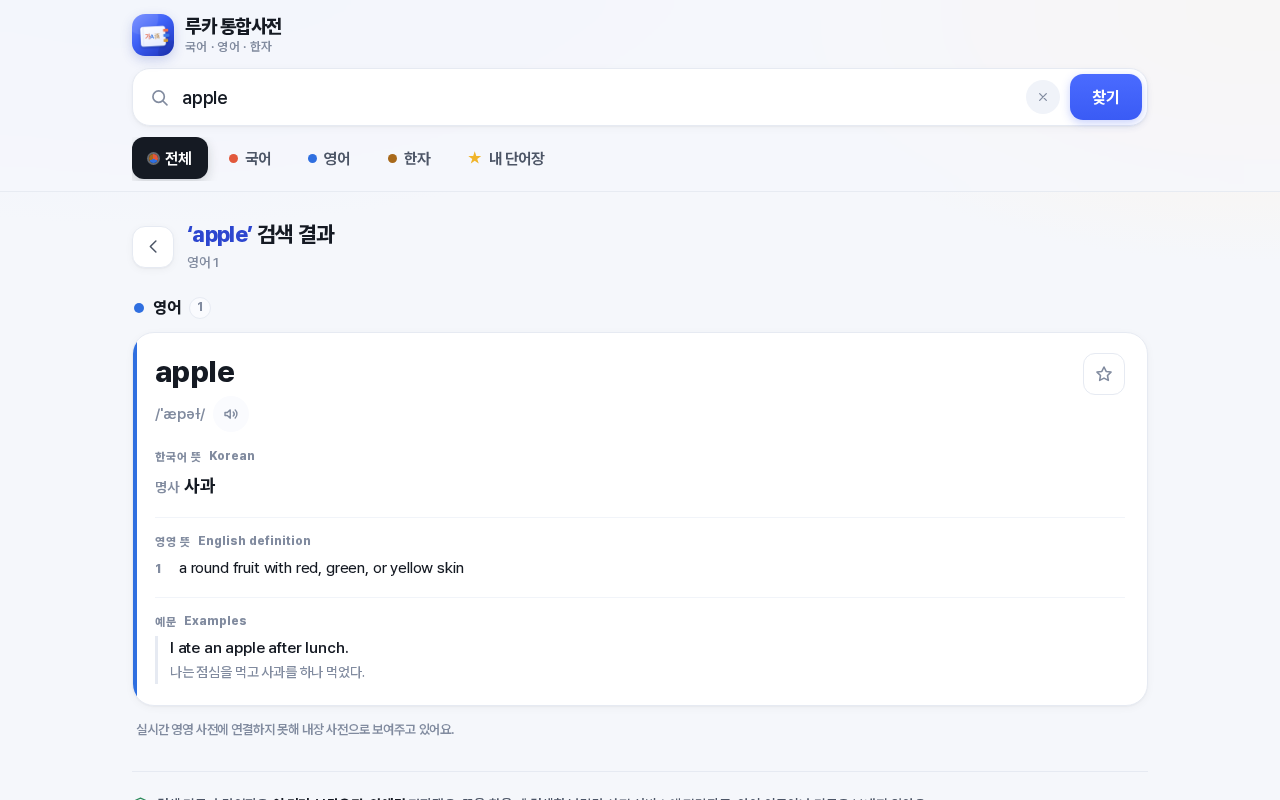
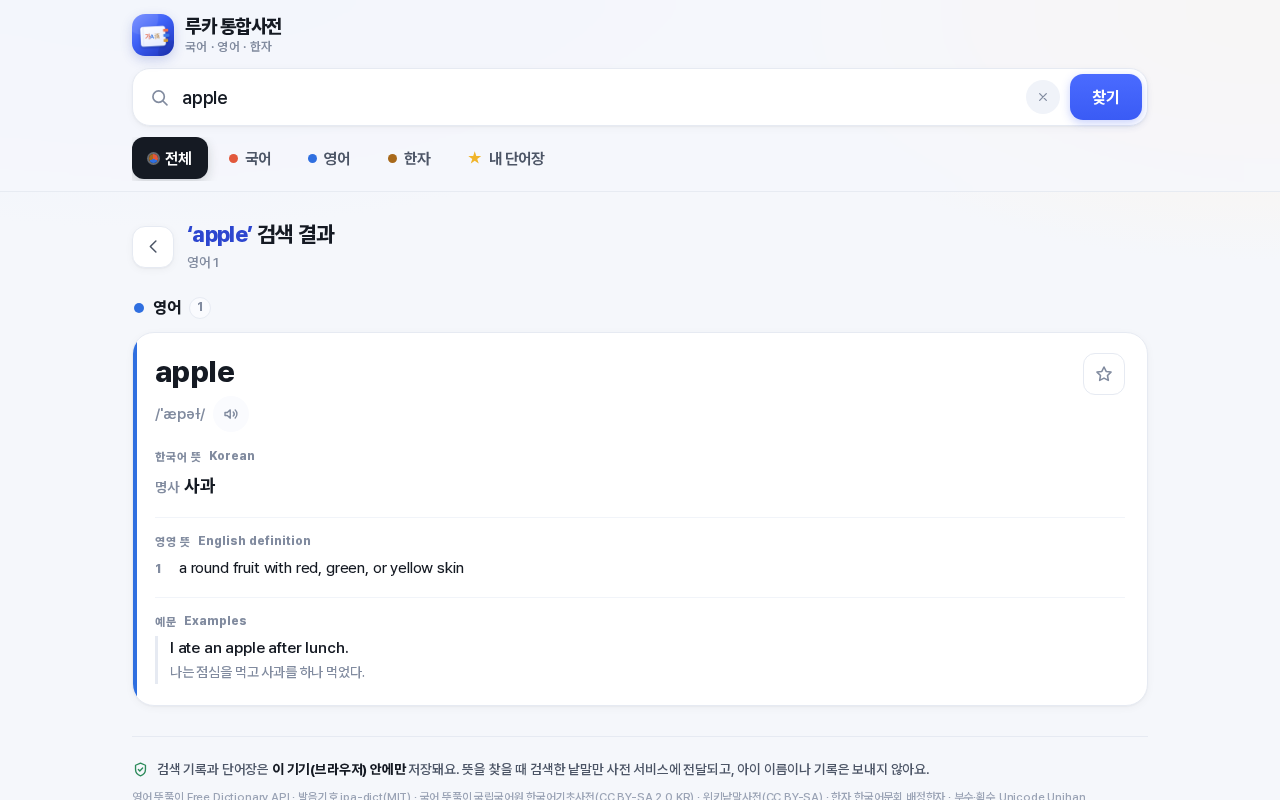
영어 카드: 내장 사전에 뜻이 있으면 실시간 연결 실패 안내를 띄우지 않도록 정리

Changed region(s): [[0.0938, 0.9062, 0.7812, 1.0]]

diff --git a/js/app.js b/js/app.js
@@ -831,7 +831,7 @@
         } else {
           enInner = '<div class="empty">영어 사전에서 <b>' + escapeHtml(q) + "</b>을(를) 찾지 못했어요.<br>철자를 다시 확인해 보세요.</div>";
         }
-      } else if (state.liveEnState === "failed" && enList.length) {
+      } else if (state.liveEnState === "failed" && enList.length && !enList[0].defs.length) {
         enInner += '<div class="live-status" style="padding-left:4px">실시간 영영 사전에 연결하지 못해 내장 사전으로 보여주고 있어요.</div>';
       }
       var enCount = enList.length + (liveIsNew ? 1 : 0);
